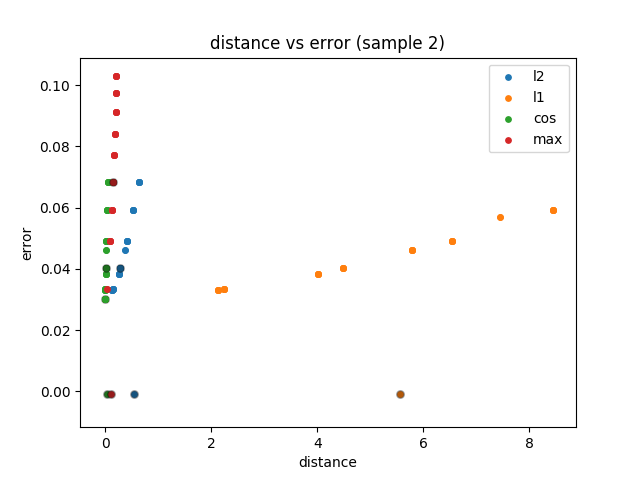
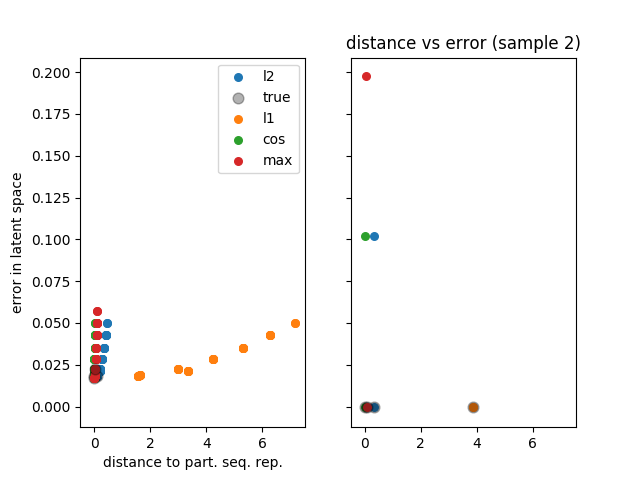
added

diff --git a/RNN/utils/association_evaluation.py b/RNN/utils/association_evaluation.py
@@ -520,8 +520,8 @@ def plot_best_distance_function(model, data, data_iterator, n=50):
 				axarr[0].scatter(dists[:1], errors[:1], c='black', alpha='0.3', s=60)
 
 		axarr[0].legend()
-		axarr[0].xlabel('distance to comp. seq. rep.')
-		axarr[0].ylabel('error in raw space')
+		axarr[0].set_xlabel('distance to comp. seq. rep.')
+		axarr[0].set_ylabel('error in raw space')
 
 		for i in range(N):
 			dist_name = metrics.__dist_name__(i)
@@ -534,12 +534,12 @@ def plot_best_distance_function(model, data, data_iterator, n=50):
 				axarr[1].scatter(dists[-1:], errors[-1:], c='black', alpha='0.3', s=60)
 
 		axarr[0].legend()
-		axarr[0].xlabel('distance to part. seq. rep.')
-		axarr[0].ylabel('error in latent space')
+		axarr[0].set_xlabel('distance to part. seq. rep.')
+		axarr[0].set_ylabel('error in latent space')
 
-		f.title('distance vs error (sample %d)'%(j))
-		f.savefig('../new_out/__plot_best_distance_function_%d.png'%(j))
-		f.close()
+		plt.title('distance vs error (sample %d)'%(j))
+		plt.savefig('../new_out/__plot_best_distance_function_%d.png'%(j))
+		plt.close()
 
 	# error = np.zeros(n)
 	# for i in range(N):

diff --git a/RNN/utils/metrics.py b/RNN/utils/metrics.py
@@ -249,7 +249,7 @@ def get_label_embedding(model, data_iterator, also_without_label=False, without_
 				embedding = e_l
 			else:
 				embedding = np.concatenate((embedding, e_l), axis=0)
-		# break
+		#break
 	return np.array(embedding)
 
 def get_embedding(model, data_iterator, subspace=-1):
